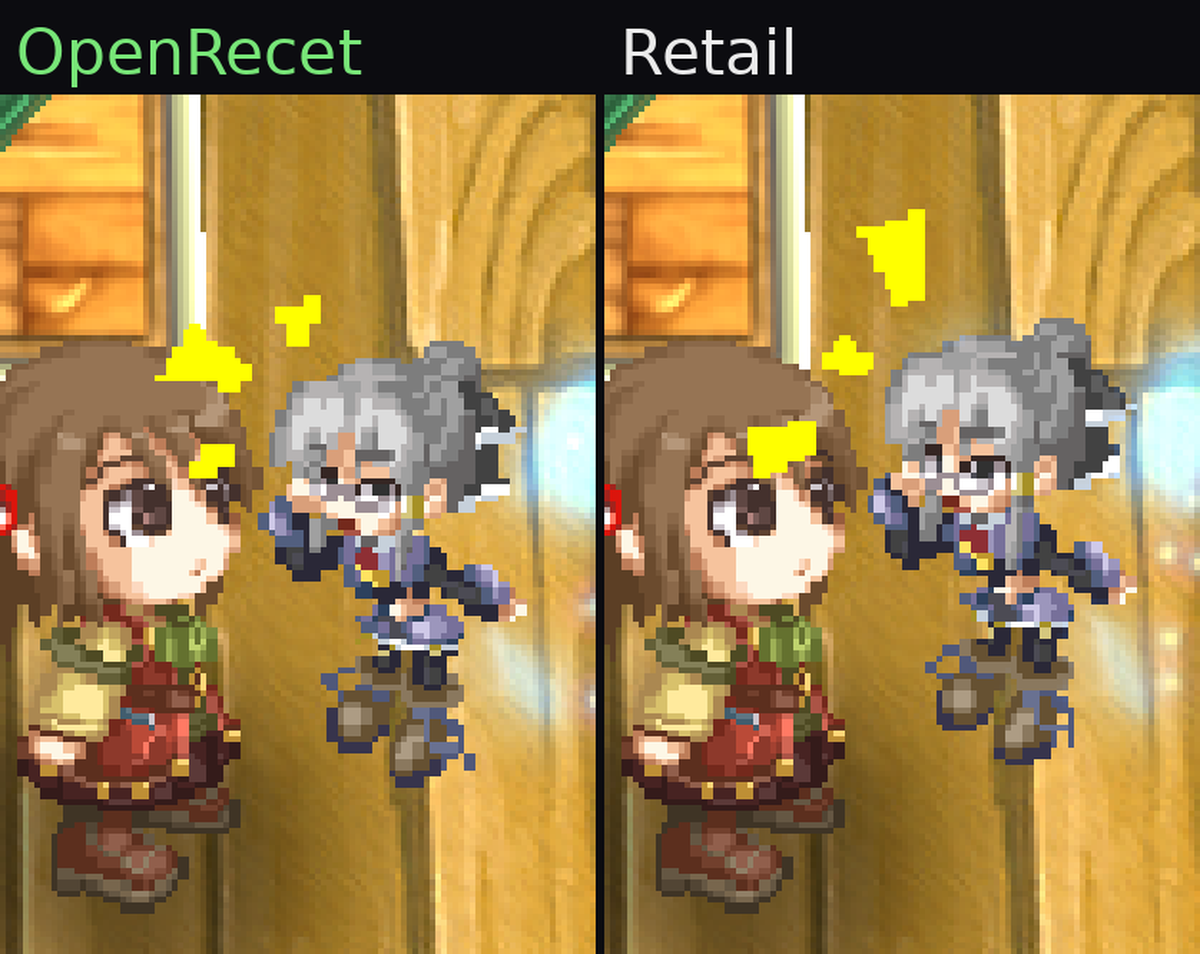
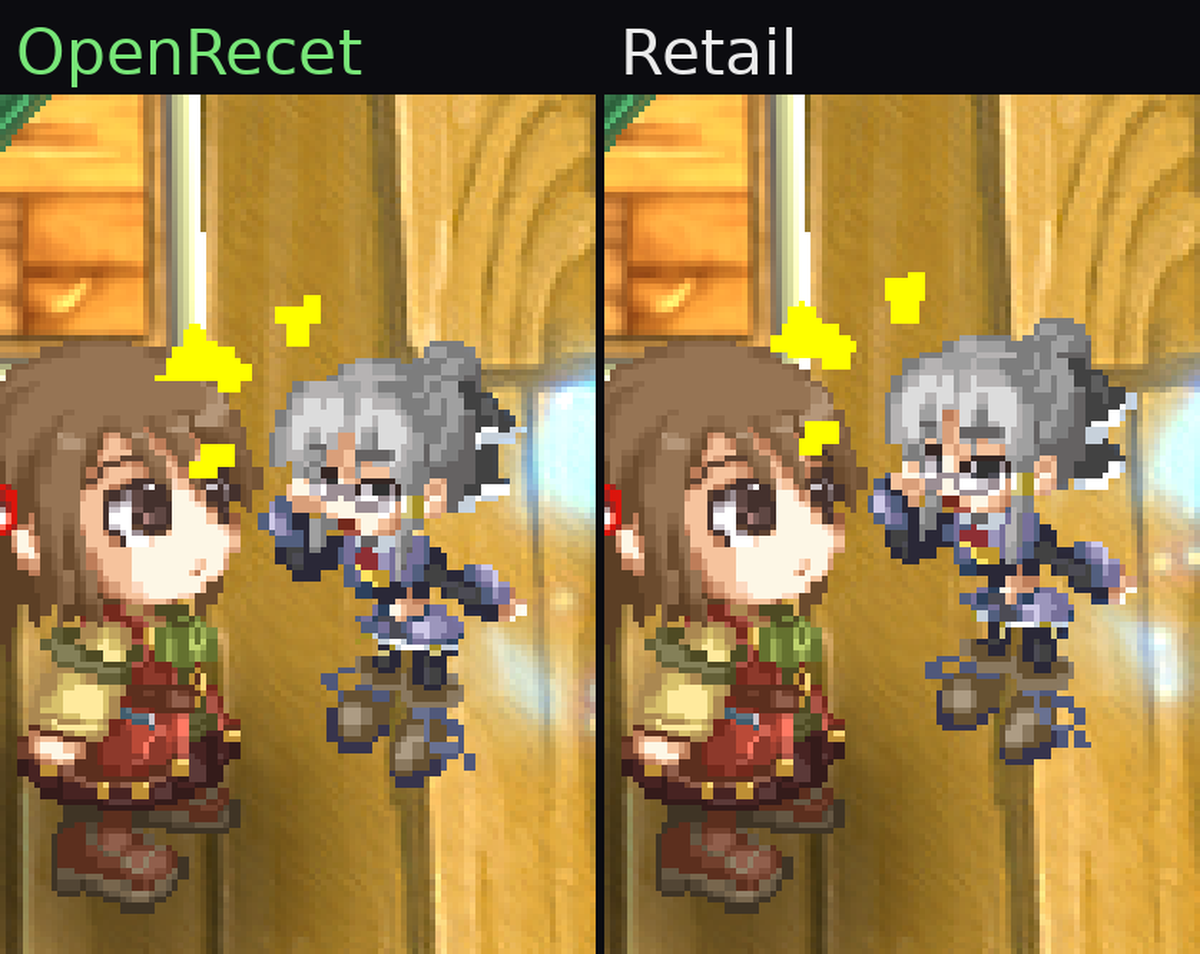
docs(readme): iv1_2 dialogue hero to the top; house-comparison regenerated 1:1
- README: promote the iv1_2-dialogue side-by-side to the top banner (window NPCs
  now bit-1:1); house-comparison drops to the gallery with a refreshed caption.
- house-comparison: recomposed from a phase-pinned run (house-idle-npc-drift,
  one {phasepin} → back-window NPCs bit-1:1 + the §95 overlay fix). Dropped the
  FPS overlay (wall-clock-derived → would diverge) for a clean 1:1 shot; removed
  the old 'NPC drift not pinned' caption disclaimer.
- hero-iv1_2-pose: re-pinned to the latest intro-iv2-gap run. (Its residual is
  the deferred Tear companion phase — kept per user.)

diff --git a/README.md b/README.md
@@ -11,26 +11,29 @@ project**. It ships **no game assets, no decompiled binary, and no
 copyrighted content** — you bring your own copy of the game. MIT licensed
 (our code only; no rights to the original game are granted).
 
-![OpenRecet (left) vs the original retail engine (right) — the HOUSE shop interior](docs/img/house-comparison.png)
+![OpenRecet (left) vs the original retail engine (right) — an iv1_2 dialogue line over the live HOUSE map](docs/img/hero-iv1_2-dialogue.png)
 
-*OpenRecet (left) next to the original engine (right), free-roaming in the
-shop. The 3D room (geometry, textures, lighting, window god-rays), the
-persistent top HUD (clock / day / money), the "Change Camera" hint, the FPS
-overlay, Recette, and the townsfolk drifting past the back window are all
-reproduced close to 1:1. (The NPCs' exact drift phase isn't pinned yet, so
-they're at slightly different spots in the two windows.)*
+*OpenRecet (left) next to the original engine (right), on an opening-prologue
+iv1_2 dialogue line. The dialogue box, nameplate, character standees, the top
+HUD (clock / day / money) the engine draws over the live map during iv1_2, and
+the townsfolk drifting past the back window are reproduced bit-for-bit.*
 
-A few more side-by-sides from the opening — each is OpenRecet (left) vs the
-retail engine (right), captured from the same deterministic input trace:
+More side-by-sides — each is OpenRecet (left) vs the retail engine (right),
+captured from the same deterministic input trace:
+
+![the HOUSE shop interior, free-roaming](docs/img/house-comparison.png)
+
+*Free-roaming in the shop: the 3D room (geometry, textures, lighting, window
+god-rays), the persistent top HUD (clock / day / money), the "Change Camera"
+hint, Recette, and the townsfolk drifting past the back window are all
+reproduced 1:1.*
 
 ![iv1_1 'sigh' effect sprite](docs/img/hero-iv1_1-sigh.png)
 ![iv1_2 look-up pose, zoomed](docs/img/hero-iv1_2-pose.png)
-![iv1_2 dialogue with the HUD](docs/img/hero-iv1_2-dialogue.png)
 
-*Top to bottom: the iv1_1 "sigh" effect sprite mid-fade (full-screen
-cutscene, no HUD); a zoom on Recette's look-up pose at the iv1_2 opening; and
-an iv1_2 dialogue line — note the top HUD, which the engine draws over the
-live map during iv1_2 but suppresses behind iv1_1's full-screen background.*
+*The iv1_1 "sigh" effect sprite mid-fade (full-screen cutscene, no HUD); and a
+zoom on the iv1_2 opening conversation poses (Recette's look-up, Tear's
+reaction).*
 
 In memory of Andrew Dice / [@SpaceDrakeCF](https://x.com/SpaceDrakeCF)
 and Carpe Fulgur.
